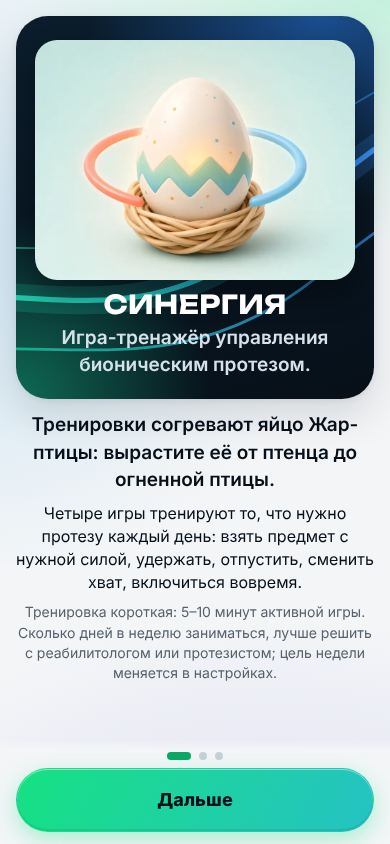
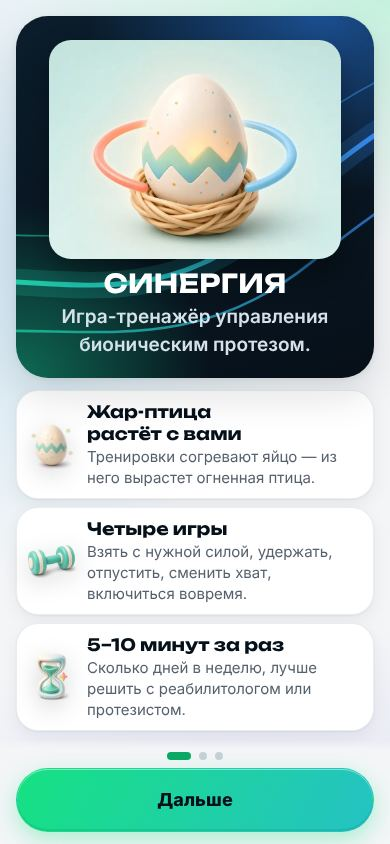
5.32.0: the catalogue names the grip pictures; the onboarding screenshot shows the new first frame
- docs/ART.md: the standing hand family with its six grip pictures (hand-pinch …), the hanging one with the grips to
  come, the real picture sizes (438 × 635, 364 × 686), gesture pictures 9 at 256 px, the set 2,21 МБ, the standalone
  HTML 3,7 МБ.
- docs/screenshots/v5-01-onboarding.jpg: the welcome page with its three points. The other screenshots the a11y run
  re-shot differ only in bytes and are left as they were (each rewrite stays in the history of the archive).

Changed region(s): [[0.0308, 0.0308, 0.9846, 0.8626]]

diff --git a/docs/ART.md b/docs/ART.md
@@ -18,9 +18,9 @@
 | Медали | `ach-<id>` (15), `ach-locked` | «Достижения и подарки» в гнезде, награды итогов | 32–48 px | 192 px | вырезан |
 | Подарки | `gift-<id>` (10) | на птице, выбор наряда, строки подарков, награды | 22–90 px | 192 px | вырезан |
 | Предметы | `obj-<id>` (10) | поле «Мастерской» (холст) | ≈ 1,1 размера предмета | 192 px | вырезан |
-| Жесты | `gesture-<id>` (7) | площадки жестов, карточка «Сейфа» (холст) | 36–80 px | 192 px | вырезан |
-| Кисти «Двух рук» | `hand-<rest/close/open>` | стол и карточка «Двух рук» (холст); корпус — в цвете облика | 30–200 px | 221 × 320 | пурпурный ключ |
-| Висящие кисти «Мастерской» | `hand-down-<open/rest/close>` | «Мастерская» (холст): кисть на руке сверху; корпус — в цвете облика | 80–200 px | 212 × 400 | пурпурный ключ |
+| Жесты | `gesture-<id>` (9) | площадки жестов, карточка «Сейфа» (холст) | 36–80 px | 256 px | пурпурный ключ |
+| Кисти «Двух рук» | `hand-<rest/close/open>`; хваты `hand-<pinch/point/key/thumb/indication/thumbflex>` (26.10) | стол и карточка «Двух рук», «Первые шаги», калибровка (холст); хват, где пальцы расходятся, — своя картинка той же кисти; корпус — в цвете облика | 30–220 px | 438 × 635 | пурпурный ключ |
+| Висящие кисти «Мастерской» | `hand-down-<open/rest/close>`; хваты `hand-down-<pinch/key/point>` — после генерации | «Мастерская» (холст): кисть на руке сверху; корпус — в цвете облика | 80–200 px | 364 × 686 | пурпурный ключ |
 | Мастерская | `bg-grip-<day/night>` | фон «Мастерской» (холст): стена и верстак | всё поле | 848 × 1264 | свой |
 | Корзина, планер | `prop-basket`, `prop-glider` | «Мастерская», «Полёт» (холст) | 60–110 px | 256 и 192 px | пурпурный ключ |
 | Комната «Двух рук» | `bg-duo-<day/night>` | фон «Двух рук» (холст): днём и ночью | всё поле | 848 × 1264 | свой |
@@ -75,13 +75,13 @@
 
 | Что | Бюджет | Сейчас |
 |---|---|---|
-| весь набор | ≤ 3,5 МБ (до 26.10 — 2 МБ) | 1,89 МБ |
+| весь набор | ≤ 3,5 МБ (до 26.10 — 2 МБ) | 2,21 МБ |
 | картинка птицы | ≤ 64 КБ | 17–48 КБ (все 21 — 675 КБ) |
 | значок, медаль, подарок, предмет, жест, облик, панель | ≤ 32 КБ | 2–10 КБ |
 | Мио, игра, пустой «Прогресс», дело дня | ≤ 48 КБ | 2–31 КБ |
 | сцена (обложка, фон) | ≤ 120 КБ | 7–27 КБ |
 | сгенерированные кисти, предметы, комнаты 5.32 (`hand-*`, `prop-*`, `bg-duo-*`, `bg-grip-*`) | ≤ 160 КБ | 21–52 КБ, в полном размере листа, WebP 92 |
-| автономный HTML | < 6 МБ (до 26.10 — 4 МБ) | 3,2 МБ |
+| автономный HTML | < 6 МБ (до 26.10 — 4 МБ) | 3,7 МБ |
 
 **Откуда бюджет (26.10).** Жёсткий предел один: площадка принимает архив до 30 МБ. Это репозиторий с историей плюс APK и автономный HTML (`PLAN.md` B.3а). Картинка попадает в архив примерно 4,3 раза: в дерево, в историю, в APK и в HTML (base64, +33 %). Замер 26.10 с 1,89 МБ картинок: история 8,2 МБ, файлы 6,0 МБ, APK 2,5 МБ, HTML 3,2 МБ — около 20 МБ из 30. Бюджет 3,5 МБ оставляет запас на выпуски до дедлайна. Каждая перезапись картинки или снимков экрана тоже ложится в историю.
 
